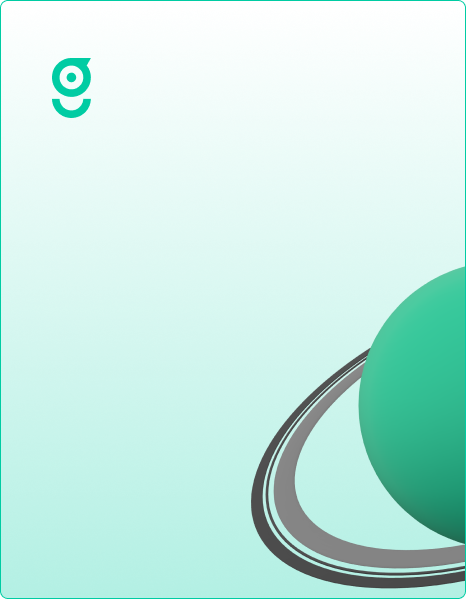
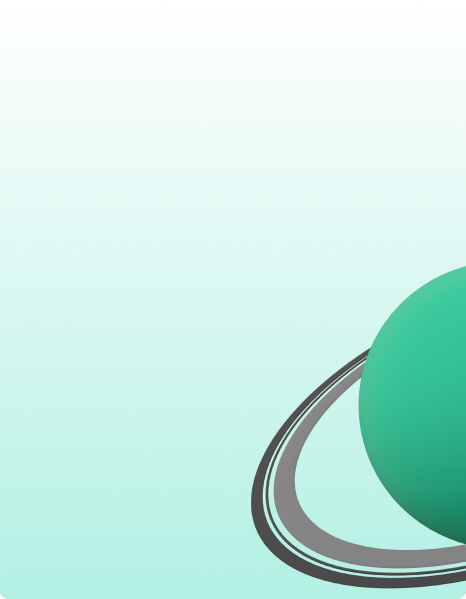
fix

Changed region(s): [[0.0, 0.0, 1.0, 1.0], [0.0901, 0.0902, 0.2103, 0.2104], [0.0, 0.0, 0.03, 0.0301]]

diff --git a/src/common/components/ContactInfo/ContactInfo.module.css b/src/common/components/ContactInfo/ContactInfo.module.css
@@ -1,36 +1,61 @@
 .container {
     display: flex;
     justify-content: center;
-    align-items: center;
     gap: 22px;
 }
 
-.container_wrapper {
+.contact_info{
     height: 600px;
-    width: 466px;
-    background-image: url('/public/assets/Frame8.png');
-    background-repeat: no-repeat;
+    width: 35%;
+    border: 1px solid var(--primary-color);
+    border-radius: 8px;
 }
 
-.container_title {
+.contact_info_wrapper {
+    display: flex;
+    justify-content: center;
+    height: 100%;
+    width: 100%;
+    border-radius: 6px;
+    background: url('/public/assets/Frame8.png') no-repeat;
+    background-size: cover;
+}
+
+.contact_info_title {
+    display: flex;
+    align-items: center;
+    gap: 20px;
+}
+
+.contact_info_texts {
     display: flex;
     flex-direction: column;
-    align-items: center;
     gap: 10px;
-    padding-top: 13%;
-    font-size: 21px;
 }
 
-.container_title_text {
-    font-size: 15px;
+.contact_info_img {
+    height: 60px;
+    width: 40px;
+}
+
+.contact_info_main {
+    display: flex;
+    flex-direction: column;
+    align-items: flex-start;
+    padding-top: 60px;
+    font-size: var(--font-size-ml);
+}
+
+.contact_info_text {
+    font-size: var(--font-size-sm);
     font-weight: 300;
     color: #FFF;
 }
 
-.container_list {
+.contact_info_list {
     display: flex;
     flex-direction: column;
     gap: 46px;
-    padding-top: 40%;
-    padding-left: 12%;
+    padding-top: 100px;
+    padding-left: 10px;
 }

diff --git a/src/common/components/ContactInfo/ContactInfo.tsx b/src/common/components/ContactInfo/ContactInfo.tsx
@@ -6,16 +6,23 @@ import { ContactsArray } from '../../config';
 import styles from './ContactInfo.module.css';
 export const ContactInfo = () => (
   <div className={styles.container}>
-    <div className={styles.container_wrapper}>
-      <div className={styles.container_title}>
-        <h3>Contact Information</h3>
-        <p className={styles.container_title_text}>Say something to start a live chat!</p>
+    <div className={styles.contact_info}>
+      <div className={styles.contact_info_wrapper}>
+        <div className={styles.contact_info_main}>
+          <div className={styles.contact_info_title}>
+            <img className={styles.contact_info_img} src='/assets/Group1.svg' alt='asdasd' />
+            <div className={styles.contact_info_texts}>
+              <h3>Contact Information</h3>
+              <p className={styles.contact_info_text}>Say something to start a live chat!</p>
+            </div>
+          </div>
+          <ul className={styles.contact_info_list}>
+            {ContactsArray.map((item, index) => (
+              <Contacts key={index} {...item} />
+            ))}
+          </ul>
+        </div>
       </div>
-      <ul className={styles.container_list}>
-        {ContactsArray.map((item, index) => (
-          <Contacts key={index} {...item} />
-        ))}
-      </ul>
     </div>
     <Form />
   </div>

diff --git a/src/common/components/ContactInfo/Form/Form.tsx b/src/common/components/ContactInfo/Form/Form.tsx
@@ -88,11 +88,11 @@ export const Form = () => {
         <Input label={'Tell us more'} name={'moreInfo'} register={register} />
       </div>
       <div className={styles.container_controls}>
-        <CheckBox register={register} name={'NDA'} label={'Do you need a NDA?'} />
+        <CheckBox register={register} name='NDA' label='Do you need a NDA?' />
         <div className={styles.controls_buttons}>
-          <Button size={'xm'}>{'Upload CV'}</Button>
-          <Button buttonType={'secondary'} size={'xs'} type='submit'>
-            {'Send Message'}
+          <Button size='xm'>Upload CV</Button>
+          <Button buttonType='secondary' size='xs' type='submit'>
+            Send Message
           </Button>
         </div>
       </div>

diff --git a/src/stylesheets/variables.css b/src/stylesheets/variables.css
@@ -5,11 +5,13 @@
 
   --primary-black: #0F0F0F;
   --primary-border-color: #DEE1E9;
+  --primary-border-red: #d8000c;
   --primary-color: #00CCA3;
   --secondary-color: #ffffff33;
   --primary-gray: #697088;
   --secondary-gray: #8D8D8D;
   --primary-white: #FFFFFF;
+  --primary-red: #d8000c;
 
   --font-size-xs: 12px;
   --font-size-sm: 14px;

diff --git a/src/common/components/Select/Select.module.css b/src/common/components/Select/Select.module.css
@@ -43,9 +43,9 @@
 }
 
 .errors {
-    color: #d8000c;
-    background-color: white;
-    border: 1px solid #d8000c;
+    color: var(--primary-red);
+    background-color: var(--primary-white);
+    border: 1px solid var(--primary-border-red);
     margin-top: 10px;
     padding: 10px;
     border-radius: 5px;

diff --git a/src/common/components/Input/Input.module.css b/src/common/components/Input/Input.module.css
@@ -36,9 +36,9 @@ label {
 }
 
 .errors {
-    color: #d8000c;
+    color: var(--primary-red);
     background-color: var(--primary-white);
-    border: 1px solid #d8000c;
+    border: 1px solid var(--primary-border-red);
     margin-top: 10px;
     padding: 10px;
     border-radius: 5px;

diff --git a/src/common/components/ContactInfo/Form/Form.module.css b/src/common/components/ContactInfo/Form/Form.module.css
@@ -1,6 +1,6 @@
 .inputs_main {
     display: grid;
-    grid-template-columns: repeat(2, 1fr); /* Создаем три столбца равной ширины */
+    grid-template-columns: repeat(2, 1fr);
     grid-gap: 30px;
     max-width: 682px;
 }
